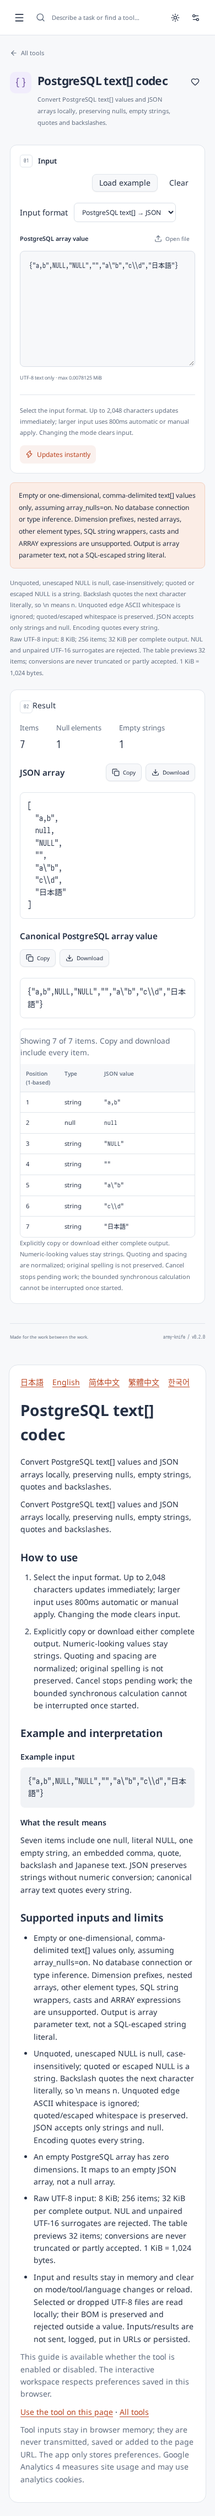
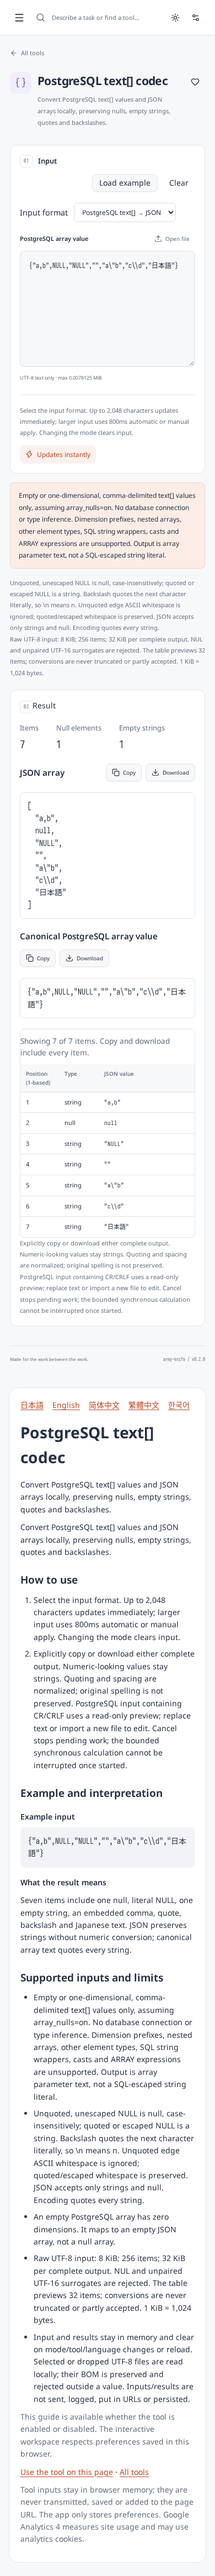
fix: preserve raw carriage returns in PostgreSQL array input

diff --git a/src/i18n/pg-text-array.ts b/src/i18n/pg-text-array.ts
@@ -15,7 +15,7 @@ const en = {
   "pgArray.scope": "Empty or one-dimensional, comma-delimited text[] values only, assuming array_nulls=on. No database connection or type inference. Dimension prefixes, nested arrays, other element types, SQL string wrappers, casts and ARRAY expressions are unsupported. Output is array parameter text, not a SQL-escaped string literal.",
   "pgArray.grammar": "Unquoted, unescaped NULL is null, case-insensitively; quoted or escaped NULL is a string. Backslash quotes the next character literally, so \\n means n. Unquoted edge ASCII whitespace is ignored; quoted/escaped whitespace is preserved. JSON accepts only strings and null. Encoding quotes every string.",
   "pgArray.limits": "Raw UTF-8 input: 8 KiB; 256 items; 32 KiB per complete output. NUL and unpaired UTF-16 surrogates are rejected. The table previews 32 items; conversions are never truncated or partly accepted. 1 KiB = 1,024 bytes.",
-  "pgArray.exportHelp": "Explicitly copy or download either complete output. Numeric-looking values stay strings. Quoting and spacing are normalized; original spelling is not preserved. Cancel stops pending work; the bounded synchronous calculation cannot be interrupted once started.",
+  "pgArray.exportHelp": "Explicitly copy or download either complete output. Numeric-looking values stay strings. Quoting and spacing are normalized; original spelling is not preserved. PostgreSQL input containing CR/CRLF uses a read-only preview; replace text or import a new file to edit. Cancel stops pending work; the bounded synchronous calculation cannot be interrupted once started.",
   "pgArray.privacy": "Input and results stay in memory and clear on mode/tool/language changes or reload. Selected or dropped UTF-8 files are read locally; their BOM is preserved and rejected outside a value. Inputs/results are not sent, logged, put in URLs or persisted.",
   "pgArray.exampleResult": "Seven items include one null, literal NULL, one empty string, an embedded comma, quote, backslash and Japanese text. JSON preserves strings without numeric conversion; canonical array text quotes every string.",
   "pgArray.rejected": "The edit or file import was rejected. Replace the input or load the sample before exporting.",
@@ -43,7 +43,7 @@ const ja: Messages = {
   "pgArray.scope": "array_nulls=onを前提とする、空または1次元・カンマ区切りのtext[]値のみ。DB接続・型推測は行いません。添字範囲・多次元・別の要素型・SQL文字列の外側の引用・キャスト・ARRAY式は対象外です。出力は配列パラメーター用テキストで、SQL用にエスケープした文字列リテラルではありません。",
   "pgArray.grammar": "引用もエスケープもないNULLは大文字小文字を問わずnull、それ以外のNULLは文字列です。バックスラッシュは次の文字をそのまま表すため、\\nは文字n。引用なしの前後のASCII空白類は除外し、引用・エスケープした空白は保持します。JSONは文字列とnullのみ。変換時は全文字列を引用します。",
   "pgArray.limits": "加工前UTF-8入力8 KiB・256項目・各出力32 KiBまで。NULと孤立UTF-16サロゲートは拒否します。表は32項目のプレビューで、変換結果の切り詰めや部分受け付けはしません。1 KiB = 1,024バイト。",
-  "pgArray.exportHelp": "各出力全体を明示操作でコピー・保存できます。数値に見える値も文字列のままです。引用と空白は正規化し、入力の元の表記は保持しません。中止は待機中に有効で、上限付き同期計算の開始後は中断できません。",
+  "pgArray.exportHelp": "各出力全体を明示操作でコピー・保存できます。数値に見える値も文字列のままです。引用と空白は正規化し、入力の元の表記は保持しません。CR・CRLFを含むPostgreSQL入力は読み取り専用プレビューで、編集にはテキストの入れ替えか新しいファイルを使います。中止は待機中に有効で、上限付き同期計算の開始後は中断できません。",
   "pgArray.privacy": "入力・結果はメモリ内だけで、形式・ツール・言語の変更や再読み込みで消去します。選択・ドロップしたUTF-8ファイルはローカルで読み、BOMは保持して値の外側では拒否します。入力・結果の送信・ログ・URL化・永続保存はしません。",
   "pgArray.exampleResult": "7項目にnullが1個、文字列NULL、空文字が1個、値内のカンマ・引用符・バックスラッシュ・日本語を含みます。JSONでも文字列を数値変換せず、正規表記の配列値では全文字列を引用します。",
   "pgArray.rejected": "編集またはファイル読み込みを拒否しました。入力を置き換えるかサンプルを読み込んでから出力してください。",
@@ -70,7 +70,7 @@ const zhCN: Messages = {
   "pgArray.scope": "仅支持array_nulls=on下为空或一维、逗号分隔的text[]值。不连接数据库，不推断类型。不支持维度前缀、嵌套数组、其他元素类型、SQL字符串外层引号、类型转换及ARRAY表达式。输出是数组参数文本，不是经过SQL转义的字符串字面量。",
   "pgArray.grammar": "未引用且未转义的NULL不区分大小写，表示null；引用或转义的NULL是字符串。反斜杠仅转义下一字符，因此\\n表示字符n。忽略未引用值两端的ASCII空白，保留引用/转义空白。JSON仅接受字符串和null，编码时引用所有字符串。",
   "pgArray.limits": "原始UTF-8输入8 KiB，最多256项，每份完整输出32 KiB。拒绝NUL和孤立UTF-16代理项。表格预览32项，转换不会截断或部分接受。1 KiB = 1,024字节。",
-  "pgArray.exportHelp": "显式复制或下载任一完整输出。看似数字的值仍为字符串。引用和空白会规范化，不保留原始拼写。取消可停止等待任务；有上限的同步计算开始后无法中断。",
+  "pgArray.exportHelp": "显式复制或下载任一完整输出。看似数字的值仍为字符串。引用和空白会规范化，不保留原始拼写。含CR/CRLF的PostgreSQL输入为只读预览，修改时请替换文本或导入新文件。取消可停止等待任务；有上限的同步计算开始后无法中断。",
   "pgArray.privacy": "输入与结果仅在内存中，切换格式、工具、语言或重新加载时清除。所选/拖入的UTF-8文件仅在本地读取；保留BOM并在值外拒绝。不发送、记录输入或结果，不写入URL或持久存储。",
   "pgArray.exampleResult": "7项包含1个null、字符串NULL、1个空字符串、值内逗号、引号、反斜杠和日文。JSON不将字符串转为数字；规范数组文本引用所有字符串。",
   "pgArray.rejected": "此次编辑或文件导入已被拒绝。请替换输入或加载示例后再导出。",
@@ -97,7 +97,7 @@ const zhTW: Messages = {
   "pgArray.scope": "僅支援array_nulls=on下為空或一維、逗號分隔的text[]值。不連接資料庫，不推斷型別。不支援維度前綴、巢狀陣列、其他元素型別、SQL字串外層引號、型別轉換及ARRAY運算式。輸出是陣列參數文字，不是經SQL跳脫的字串常值。",
   "pgArray.grammar": "未加引號且未跳脫的NULL不分大小寫，表示null；加引號或跳脫的NULL是字串。反斜線僅跳脫下一字元，因此\\n表示字元n。忽略未引用值兩端的ASCII空白，保留引號/跳脫空白。JSON僅接受字串與null，編碼時引用所有字串。",
   "pgArray.limits": "原始UTF-8輸入8 KiB，最多256項，每份完整輸出32 KiB。拒絕NUL與孤立UTF-16代理項。表格預覽32項，轉換不會截斷或部分接受。1 KiB = 1,024位元組。",
-  "pgArray.exportHelp": "明確操作以複製或下載任一完整輸出。看似數字的值仍為字串。引號與空白會標準化，不保留原始寫法。取消可停止等待任務；有上限的同步計算開始後無法中斷。",
+  "pgArray.exportHelp": "明確操作以複製或下載任一完整輸出。看似數字的值仍為字串。引號與空白會標準化，不保留原始寫法。含CR/CRLF的PostgreSQL輸入為唯讀預覽，修改時請取代文字或匯入新檔案。取消可停止等待任務；有上限的同步計算開始後無法中斷。",
   "pgArray.privacy": "輸入與結果僅在記憶體中，切換格式、工具、語言或重新載入時清除。選取/拖入的UTF-8檔案僅在本機讀取；保留BOM並在值外拒絕。不傳送、記錄輸入或結果，不寫入URL或永久儲存。",
   "pgArray.exampleResult": "7項包含1個null、字串NULL、1個空字串、值內逗號、引號、反斜線與日文。JSON不將字串轉成數字；標準陣列文字引用所有字串。",
   "pgArray.rejected": "此次編輯或檔案匯入已遭拒絕。請取代輸入或載入範例後再匯出。",
@@ -124,7 +124,7 @@ const ko: Messages = {
   "pgArray.scope": "array_nulls=on을 가정한 빈 배열 또는 쉼표로 구분한 1차원 text[] 값만 지원합니다. DB 연결과 유형 추론은 하지 않습니다. 차원 접두사, 중첩 배열, 다른 요소 유형, SQL 문자열 바깥 따옴표, 캐스트와 ARRAY 식은 지원하지 않습니다. 출력은 배열 매개변수 텍스트이며 SQL 이스케이프 문자열 리터럴이 아닙니다.",
   "pgArray.grammar": "따옴표와 이스케이프 없는 NULL은 대소문자와 무관하게 null이며, 따옴표 또는 이스케이프가 있으면 문자열입니다. 역슬래시는 다음 문자만 그대로 나타내므로 \\n은 문자 n입니다. 따옴표 없는 값의 양끝 ASCII 공백은 무시하고 따옴표/이스케이프 공백은 보존합니다. JSON은 문자열과 null만 허용하며 인코딩 시 모든 문자열을 따옴표로 감쌉니다.",
   "pgArray.limits": "원본 UTF-8 입력 8 KiB, 최대 256개 항목, 완전한 출력 각각 32 KiB. NUL과 짝 없는 UTF-16 서로게이트는 거부합니다. 표는 32개 항목을 미리 보며 변환을 자르거나 부분 수락하지 않습니다. 1 KiB = 1,024바이트.",
-  "pgArray.exportHelp": "명시적으로 각 전체 출력을 복사·다운로드합니다. 숫자처럼 보이는 값도 문자열로 유지합니다. 따옴표와 공백은 정규화되어 원래 표기를 보존하지 않습니다. 취소는 대기를 중단하며 크기가 제한된 동기 계산 시작 후에는 중단할 수 없습니다.",
+  "pgArray.exportHelp": "명시적으로 각 전체 출력을 복사·다운로드합니다. 숫자처럼 보이는 값도 문자열로 유지합니다. 따옴표와 공백은 정규화되어 원래 표기를 보존하지 않습니다. CR/CRLF가 있는 PostgreSQL 입력은 읽기 전용 미리보기이며 텍스트 바꾸기나 새 파일 가져오기로 수정하세요. 취소는 대기를 중단하며 크기가 제한된 동기 계산 시작 후에는 중단할 수 없습니다.",
   "pgArray.privacy": "입력과 결과는 메모리에만 있고 형식·도구·언어 전환이나 새로고침 시 지웁니다. 선택/드롭한 UTF-8 파일은 로컬에서 읽으며 BOM을 보존하고 값 바깥에서는 거부합니다. 입력·결과를 전송·기록하거나 URL·영구 저장소에 저장하지 않습니다.",
   "pgArray.exampleResult": "7개 항목에 null 1개, 문자열 NULL, 빈 문자열 1개, 값 내부 쉼표·따옴표·역슬래시·일본어가 포함됩니다. JSON에서도 문자열을 숫자로 바꾸지 않으며 정규 배열 텍스트는 모든 문자열을 따옴표로 감쌉니다.",
   "pgArray.rejected": "편집 또는 파일 가져오기가 거부되었습니다. 입력을 바꾸거나 예제를 불러온 후 내보내세요.",

diff --git a/src/components/CodeInput.vue b/src/components/CodeInput.vue
@@ -22,6 +22,8 @@ const props = withDefaults(
     file?: boolean;
     /** Preserve an initial UTF-8 BOM when exact file bytes matter. */
     preserveBom?: boolean;
+    /** Opt in to raw CR paste and a read-only preview until explicit replacement. */
+    preserveCarriageReturns?: boolean;
     disabled?: boolean;
   }>(),
   { maxBytes: 16 * 1024 * 1024, rows: 10, file: true },
@@ -35,6 +37,7 @@ const fileError = ref("");
 watch(fileError, (error) => { if (error) emit("rejected"); }, { flush: "sync" });
 const loading = ref(false);
 const large = computed(() => props.modelValue.length >= LARGE_TEXT_THRESHOLD);
+const carriageReturns = computed(() => Boolean(props.preserveCarriageReturns && props.modelValue.includes("\r")));
 const visibleText = computed(() =>
   large.value ? props.modelValue.slice(0, LARGE_TEXT_PREVIEW) : props.modelValue,
 );
@@ -71,6 +74,9 @@ function codeFor(error: unknown): string {
 
 function onInput(event: Event) {
   const field = event.target as HTMLTextAreaElement;
+  // The textarea API normalizes CR/CRLF to LF, including after file imports.
+  // A protected preview must never replace the raw model with that API value.
+  if (carriageReturns.value) { field.value = visibleText.value; return; }
   const text = field.value;
   stopLoading();
   if (text.length > props.maxBytes) {
@@ -123,11 +129,13 @@ function acceptLargePaste(text: string) {
 
 function onPaste(event: ClipboardEvent) {
   if (props.disabled) return;
+  if (carriageReturns.value) { event.preventDefault(); return; }
   const pasted = event.clipboardData?.getData("text/plain");
   if (!pasted) return;
   const field = event.target as HTMLTextAreaElement;
   const length = field.value.length - (field.selectionEnd - field.selectionStart) + pasted.length;
-  if (length < LARGE_TEXT_THRESHOLD && length <= props.maxBytes) return;
+  const rawCR = props.preserveCarriageReturns && pasted.includes("\r");
+  if (length < LARGE_TEXT_THRESHOLD && length <= props.maxBytes && !rawCR) return;
   event.preventDefault();
   if (length > props.maxBytes) {
     fileError.value = "INPUT_TOO_LARGE";
@@ -137,6 +145,15 @@ function onPaste(event: ClipboardEvent) {
     field.value.slice(0, field.selectionStart) +
     pasted +
     field.value.slice(field.selectionEnd);
+  if (length < LARGE_TEXT_THRESHOLD) {
+    stopLoading(); fileError.value = "";
+    if (new TextEncoder().encode(text).byteLength > props.maxBytes) {
+      fileError.value = "INPUT_TOO_LARGE";
+      return;
+    }
+    emit("update:modelValue", text);
+    return;
+  }
   acceptLargePaste(text);
 }
 
@@ -214,14 +231,14 @@ function downloadInput() {
       :rows="large ? Math.min(rows, 6) : rows"
       :placeholder="placeholder"
       :disabled="disabled || loading"
-      :readonly="large"
+      :readonly="large || carriageReturns"
       :wrap="large ? 'off' : 'soft'"
       class="code-editor w-full border-input placeholder:text-muted-foreground focus-visible:border-ring focus-visible:ring-ring/50 disabled:cursor-not-allowed disabled:opacity-50 outline-none focus-visible:ring-3"
       spellcheck="false"
       autocapitalize="off"
       autocomplete="off"
       autocorrect="off"
-      :aria-describedby="inputId + '-hint'"
+      :aria-describedby="inputId + '-hint' + (carriageReturns ? ' ' + inputId + '-cr-hint' : '')"
       @input="onInput"
       @paste="onPaste"
       @drop="onDrop"
@@ -236,6 +253,13 @@ function downloadInput() {
         <Button variant="ghost" size="sm" :disabled="loading" @click="downloadInput">
           <Download class="size-3.5" />{{ t("largeInput.download") }}
         </Button>
+      </div>
+    </div>
+    <div v-if="carriageReturns" class="large-input-summary" role="status" data-testid="preserved-cr-input">
+      <p :id="inputId + '-cr-hint'">{{ t("largeInput.carriageReturns") }}</p>
+      <div class="control-row">
+        <Button variant="outline" size="sm" :disabled="loading" data-testid="replace-raw-cr-input" @click="replace">{{ t("largeInput.replace") }}</Button>
+        <Button variant="ghost" size="sm" :disabled="loading" data-testid="download-raw-cr-input" @click="downloadInput"><Download class="size-3.5" />{{ t("largeInput.download") }}</Button>
       </div>
     </div>
     <div :id="inputId + '-hint'" class="input-footnote">

diff --git a/tests/e2e/pg-text-array.spec.ts b/tests/e2e/pg-text-array.spec.ts
@@ -168,3 +168,49 @@ test("PostgreSQL array values clear on tool, mode, locale and reload without URL
   await expect(page.getByRole("dialog")).toHaveCount(0); await expect(input).toHaveValue(""); await expect(result).toHaveCount(0);
   expect(JSON.stringify(await state())).not.toContain(PRIVATE);
 });
+
+test("PostgreSQL arrays preserve quoted and escaped carriage returns through file, keyboard and raw paste", async ({ page }) => {
+  await page.goto("./en/tools/pg-text-array/");
+  const input = page.locator("#pg-array-input"), json = page.getByTestId("pg-array-json").locator("pre");
+  for (const [source, value] of [['{"a\rb"}', "a\rb"], ['{"a\r\nb"}', "a\r\nb"], ["{a\\\rb}", "a\rb"]]) {
+    await page.getByTestId("pg-array-clear").click();
+    await page.locator('input[type="file"]').setInputFiles({ name: "raw-cr.txt", mimeType: "text/plain", buffer: Buffer.from(source!) });
+    const expected = JSON.stringify([value], null, 2);
+    await expect(json).toHaveText(expected);
+    await input.focus(); await page.keyboard.press("ControlOrMeta+End"); await page.keyboard.type(" ");
+    await expect(json).toHaveText(expected);
+    expect(await input.evaluate((element: HTMLTextAreaElement) => element.readOnly)).toBe(true);
+    await expect(page.getByTestId("preserved-cr-input")).toBeVisible();
+    expect(await page.evaluate(() => document.documentElement.scrollWidth <= document.documentElement.clientWidth + 1)).toBe(true);
+    if (process.env.ARMY_KNIFE_CAPTURE_SCREENSHOTS === "1" && page.viewportSize()?.width === 390 && page.context().browser()?.browserType().name() === "chromium" && source === '{"a\rb"}') {
+      await page.evaluate(() => document.fonts.ready);
+      await page.screenshot({ fullPage: true, path: "docs/screenshots/pg-text-array-cr-en-light-small.png" });
+    }
+    const pending = page.waitForEvent("download"); await page.getByTestId("download-raw-cr-input").click();
+    const chunks: Buffer[] = []; for await (const chunk of (await (await pending).createReadStream())!) chunks.push(chunk);
+    expect(Buffer.concat(chunks).toString("utf8")).toBe(source);
+    await page.getByTestId("replace-raw-cr-input").click(); await expect(input).toHaveValue("");
+    expect(await input.evaluate((element: HTMLTextAreaElement) => element.readOnly)).toBe(false);
+    const prevented = await input.evaluate((element, text) => {
+      const event = new Event("paste", { bubbles: true, cancelable: true });
+      Object.defineProperty(event, "clipboardData", { value: { getData: () => text } }); element.dispatchEvent(event);
+      return event.defaultPrevented;
+    }, source!);
+    expect(prevented).toBe(true); await expect(json).toHaveText(expected);
+  }
+  await page.getByTestId("replace-raw-cr-input").click();
+  await input.evaluate(element => {
+    const event = new Event("paste", { bubbles: true, cancelable: true });
+    Object.defineProperty(event, "clipboardData", { value: { getData: () => '{"' + "é".repeat(4094) + '\r"}' } });
+    element.dispatchEvent(event);
+  });
+  await expect(page.getByRole("alert")).toHaveText("The input exceeds this tool’s size limit.");
+  await expect(page.getByTestId("pg-array-result")).toHaveCount(0);
+  await page.locator("#pg-array-mode").selectOption("encode");
+  await expect(input).toHaveValue("");
+  await page.locator('input[type="file"]').setInputFiles({ name: "crlf-json.json", mimeType: "application/json", buffer: Buffer.from('[\r\n"a\\rb"\r\n]') });
+  await expect(json).toHaveText(JSON.stringify(["a\rb"], null, 2));
+  expect(await input.evaluate((element: HTMLTextAreaElement) => element.readOnly)).toBe(false);
+  await input.focus(); await page.keyboard.press("ControlOrMeta+End"); await page.keyboard.type(" ");
+  expect(JSON.parse((await json.textContent())!)).toEqual(["a\rb"]);
+});

diff --git a/tests/public/pg-text-array.spec.ts b/tests/public/pg-text-array.spec.ts
@@ -30,6 +30,15 @@ for (const locale of ["ja", "en", "zh-CN", "zh-TW", "ko"] as const) {
     await expect(result).toBeVisible(); await expect(page.locator("#main-content script, #main-content img")).toHaveCount(0);
     const state = () => page.evaluate(() => ({ local: { ...localStorage }, session: { ...sessionStorage }, url: location.href, cookie: document.cookie }));
     expect(JSON.stringify(await state())).not.toContain(PRIVATE);
+    await page.locator("#pg-array-mode").selectOption("decode");
+    const raw = '{"' + PRIVATE + '\r\nvalue"}';
+    await page.locator('input[type="file"]').setInputFiles({ name: "synthetic-public-cr.txt", mimeType: "text/plain", buffer: Buffer.from(raw) });
+    await expect(page.getByTestId("pg-array-json").locator("pre")).toHaveText(JSON.stringify([PRIVATE + "\r\nvalue"], null, 2));
+    await input.focus(); await page.keyboard.press("ControlOrMeta+End"); await page.keyboard.type(" ");
+    await expect(page.getByTestId("pg-array-json").locator("pre")).toHaveText(JSON.stringify([PRIVATE + "\r\nvalue"], null, 2));
+    expect(await input.evaluate((element: HTMLTextAreaElement) => element.readOnly)).toBe(true);
+    expect(await page.evaluate(() => document.documentElement.scrollWidth <= document.documentElement.clientWidth + 1)).toBe(true);
+    expect(JSON.stringify(await state())).not.toContain(PRIVATE);
     await page.getByTestId("pg-array-clear").click(); await page.reload(); await expect(input).toHaveValue("");
     expect(requests.join("\n")).not.toContain(PRIVATE); expect(errors).toEqual([]);
   });

diff --git a/src/components/tools/PgTextArrayTool.test.ts b/src/components/tools/PgTextArrayTool.test.ts
@@ -122,4 +122,21 @@ describe("PostgreSQL text-array real Vapor workflow", () => {
     }
     expect(errors).not.toHaveBeenCalled();
   });
+  it("preserves CR source through protected preview, replacement and raw short paste in all locales", async () => {
+    for (const locale of ["ja", "en", "zh-CN", "zh-TW", "ko"] as const) {
+      i18n.global.locale.value = locale; await nextTick(); await mode("decode");
+      const source = '{"a\r\nb"}';
+      const event = new Event("paste", { bubbles: true, cancelable: true });
+      Object.defineProperty(event, "clipboardData", { value: { getData: () => source } });
+      wrapper.get("#pg-array-input").element.dispatchEvent(event); await flushPromises();
+      expect(event.defaultPrevented).toBe(true);
+      expect(JSON.parse(wrapper.get('[data-testid="pg-array-json"] pre').element.textContent!)).toEqual(["a\r\nb"]);
+      expect(wrapper.get("#pg-array-input").element).toHaveProperty("readOnly", true);
+      expect(wrapper.get('[data-testid="preserved-cr-input"]').text()).toContain(i18n.global.t("largeInput.carriageReturns"));
+      await input('{"a\nb"} '); // Even a generated input event cannot replace raw CR.
+      expect(JSON.parse(wrapper.get('[data-testid="pg-array-json"] pre').element.textContent!)).toEqual(["a\r\nb"]);
+      await wrapper.get('[data-testid="replace-raw-cr-input"]').trigger("click");
+      expect(result().exists()).toBe(false); expect(wrapper.get("#pg-array-input").element).toHaveProperty("readOnly", false);
+    }
+  });
 });

diff --git a/src/components/tools/PgTextArrayTool.vue b/src/components/tools/PgTextArrayTool.vue
@@ -53,7 +53,7 @@ function changeMode(event: Event) {
         <option value="encode">{{ t("pgArray.encode") }}</option>
       </select>
     </div>
-    <CodeInput :key="revision" :model-value="input" :label="t(mode === 'decode' ? 'pgArray.arrayInput' : 'pgArray.jsonInput')" input-id="pg-array-input" :rows="5" :preserve-bom="true" :max-bytes="PG_TEXT_ARRAY_LIMITS.inputBytes" :placeholder="mode === 'decode' ? PG_TEXT_ARRAY_SAMPLE : PG_TEXT_ARRAY_SAMPLE_JSON" @update:model-value="input = $event; rejected = false" @rejected="rejected = true" />
+    <CodeInput :key="revision" :model-value="input" :label="t(mode === 'decode' ? 'pgArray.arrayInput' : 'pgArray.jsonInput')" input-id="pg-array-input" :rows="5" :preserve-bom="true" :preserve-carriage-returns="mode === 'decode'" :max-bytes="PG_TEXT_ARRAY_LIMITS.inputBytes" :placeholder="mode === 'decode' ? PG_TEXT_ARRAY_SAMPLE : PG_TEXT_ARRAY_SAMPLE_JSON" @update:model-value="input = $event; rejected = false" @rejected="rejected = true" />
     <div class="run-bar">
       <p class="hint">{{ t("tool.pg-text-array.hint") }}</p>
       <ApplyControl :state="control" @apply="apply" @cancel="cancel" @auto="setAuto" />

diff --git a/src/i18n/ja.ts b/src/i18n/ja.ts
@@ -79,6 +79,7 @@ export const ja: Messages = {
   "labels.no": "いいえ",
   "largeInput.summary": "大きな入力（{characters}文字）のため先頭{preview}文字だけを表示しています。解析には全文を使用します。",
   "largeInput.replace": "テキストを入れ替える",
+  "largeInput.carriageReturns": "CR・CRLFを元のまま保持しています。表示上の改行はLFになるため、読み取り専用のプレビューです。変更はテキストの入れ替えか新しいファイルで行い、正確なバイト列は元の全文・出力の保存から取得してください。",
   "largeInput.download": "元の全文を保存",
   "largeInput.outputPreview": "表示は先頭1,000項目・8,192文字までです。コピー・ダウンロードには全件を含みます。",
   "largeInput.loading": "ブラウザ内で読み込み・サイズ確認中…",

diff --git a/src/i18n/ko.ts b/src/i18n/ko.ts
@@ -81,6 +81,7 @@ export const ko: Messages = {
   "labels.no": "아니요",
   "largeInput.summary": "대용량 입력 {characters}자 중 앞부분 {preview}자만 표시합니다. 전체 텍스트로 분석합니다.",
   "largeInput.replace": "텍스트 바꾸기",
+  "largeInput.carriageReturns": "원본 CR/CRLF를 보존합니다. 이 읽기 전용 미리보기는 줄바꿈을 LF로 표시합니다. 텍스트 바꾸기나 새 파일 가져오기로 입력을 변경하세요. 정확한 바이트는 원본 또는 출력 다운로드로 가져오세요.",
   "largeInput.download": "원본 다운로드",
   "largeInput.outputPreview": "미리보기는 최대 1,000개 항목과 8,192자로 제한됩니다. 복사하거나 다운로드하면 전체 결과가 포함됩니다.",
   "largeInput.loading": "브라우저 내부에서 텍스트 확인 중…",

diff --git a/src/i18n/en.ts b/src/i18n/en.ts
@@ -79,6 +79,7 @@ export const en = {
   "labels.no": "No",
   "largeInput.summary": "Large input: {characters} characters. Only the first {preview} are shown; the full text is kept for analysis.",
   "largeInput.replace": "Replace text",
+  "largeInput.carriageReturns": "Raw CR/CRLF are preserved. This read-only preview displays line endings as LF. Use Replace text or import a new file to change the input. Download original or an output for exact bytes.",
   "largeInput.download": "Download original",
   "largeInput.outputPreview": "Showing at most 1,000 items and 8,192 characters. Copy or download includes all results.",
   "largeInput.loading": "Validating or reading text locally…",

diff --git a/src/i18n/zh-TW.ts b/src/i18n/zh-TW.ts
@@ -79,6 +79,7 @@ export const zhTW: Messages = {
   "labels.no": "否",
   "largeInput.summary": "大型文字共有 {characters} 個字元，僅顯示前 {preview} 個字元；分析仍使用全文。",
   "largeInput.replace": "取代文字",
+  "largeInput.carriageReturns": "保留原始CR/CRLF。此唯讀預覽以LF顯示換行。請取代文字或匯入新檔案來修改輸入。下載原文或輸出以取得精確位元組。",
   "largeInput.download": "下載原文",
   "largeInput.outputPreview": "預覽最多顯示 1,000 個項目與 8,192 個字元。複製或下載可取得完整結果。",
   "largeInput.loading": "正在瀏覽器內讀取或驗證文字…",

diff --git a/src/i18n/zh-CN.ts b/src/i18n/zh-CN.ts
@@ -78,6 +78,7 @@ export const zhCN: Messages = {
   "labels.no": "否",
   "largeInput.summary": "大文本共 {characters} 个字符，仅显示前 {preview} 个字符；分析仍使用全文。",
   "largeInput.replace": "替换文本",
+  "largeInput.carriageReturns": "保留原始CR/CRLF。此只读预览以LF显示换行。请替换文本或导入新文件来修改输入。下载原文或输出以取得精确字节。",
   "largeInput.download": "下载原文",
   "largeInput.outputPreview": "预览最多显示 1,000 个条目与 8,192 个字符。复制或下载可获取完整结果。",
   "largeInput.loading": "正在浏览器内读取或验证文本…",

diff --git a/docs/pg-text-array.md b/docs/pg-text-array.md
@@ -71,6 +71,14 @@ bare root `NULL` / root JSON `null` are not accepted.
 - Files decode strictly as UTF-8 and retain BOM. An outer BOM is a syntax error;
   a BOM character within a text value is retained. Rejected imports/pastes hide
   old outputs until accepted replacement/sample input arrives.
+- PostgreSQL values containing CR/CRLF use a labelled read-only input preview.
+  The textarea display normalizes line endings, so ordinary editing would change
+  values. Raw paste/file contents remain in memory; use Replace text, another
+  file, or clear/sample/mode controls to replace them. UTF-8 downloads use the
+  exact raw source/values. Clipboard actions pass full strings to the browser;
+  the native OS clipboard is outside this codec. Prefer JSON escapes or downloads
+  when newline fidelity is required. JSON input stays editable:
+  meaningful CR there is written as a JSON escape, not a raw string character.
 - Input, output and errors stay in memory. Mode/tool/language changes or reload
   discard them. No input/result request, log, URL, cookie or persistent storage
   is added. Assets/fonts use existing fixed local paths. No new dependency,
@@ -87,6 +95,9 @@ exact exports, keyboard/themes/mobile, pending cancellation and privacy.
 
 Primary references: [PostgreSQL 18 §8.15.2 / §8.15.6](https://www.postgresql.org/docs/18/arrays.html)
 and [`array_nulls`](https://www.postgresql.org/docs/18/runtime-config-compatible.html#GUC-ARRAY-NULLS).
+The [HTML textarea API](https://html.spec.whatwg.org/multipage/form-elements.html#the-textarea-element)
+explains why raw CR input needs a protected preview; actual-browser regression
+tests cover the normalization that the DOM unit-test environment does not model.
 The [official DevToys bundled list](https://devtoys.app/) was rechecked on
 2026-11-14 JST; this dedicated array-value codec defaults on. Community extensions
 are outside the comparison. The existing JSON, DSN and LSN tools serve different
